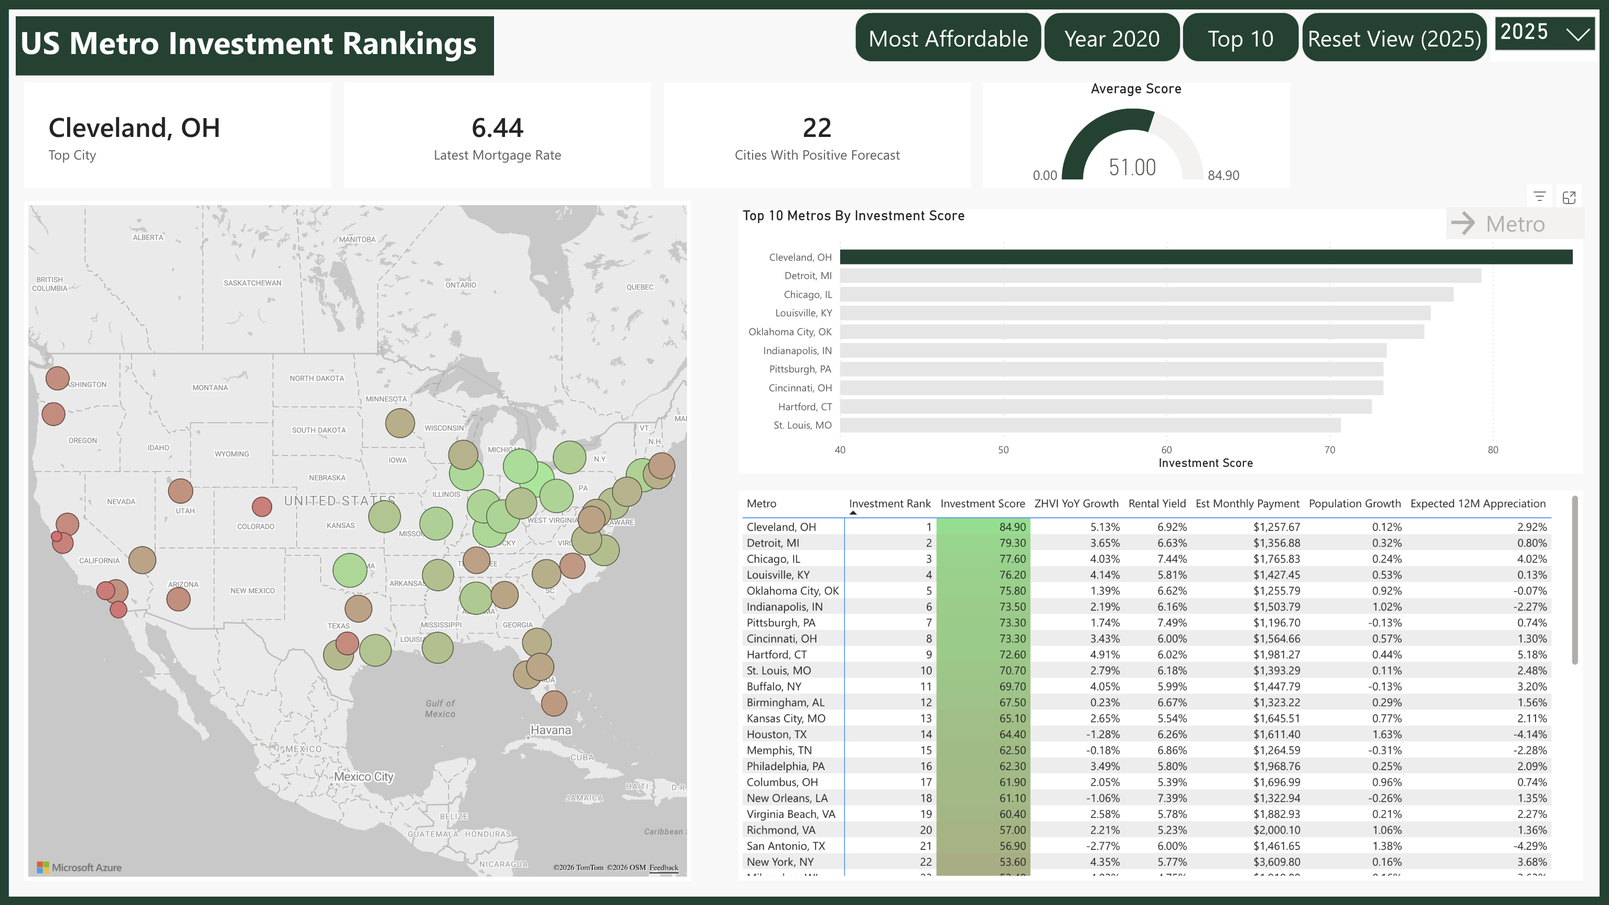
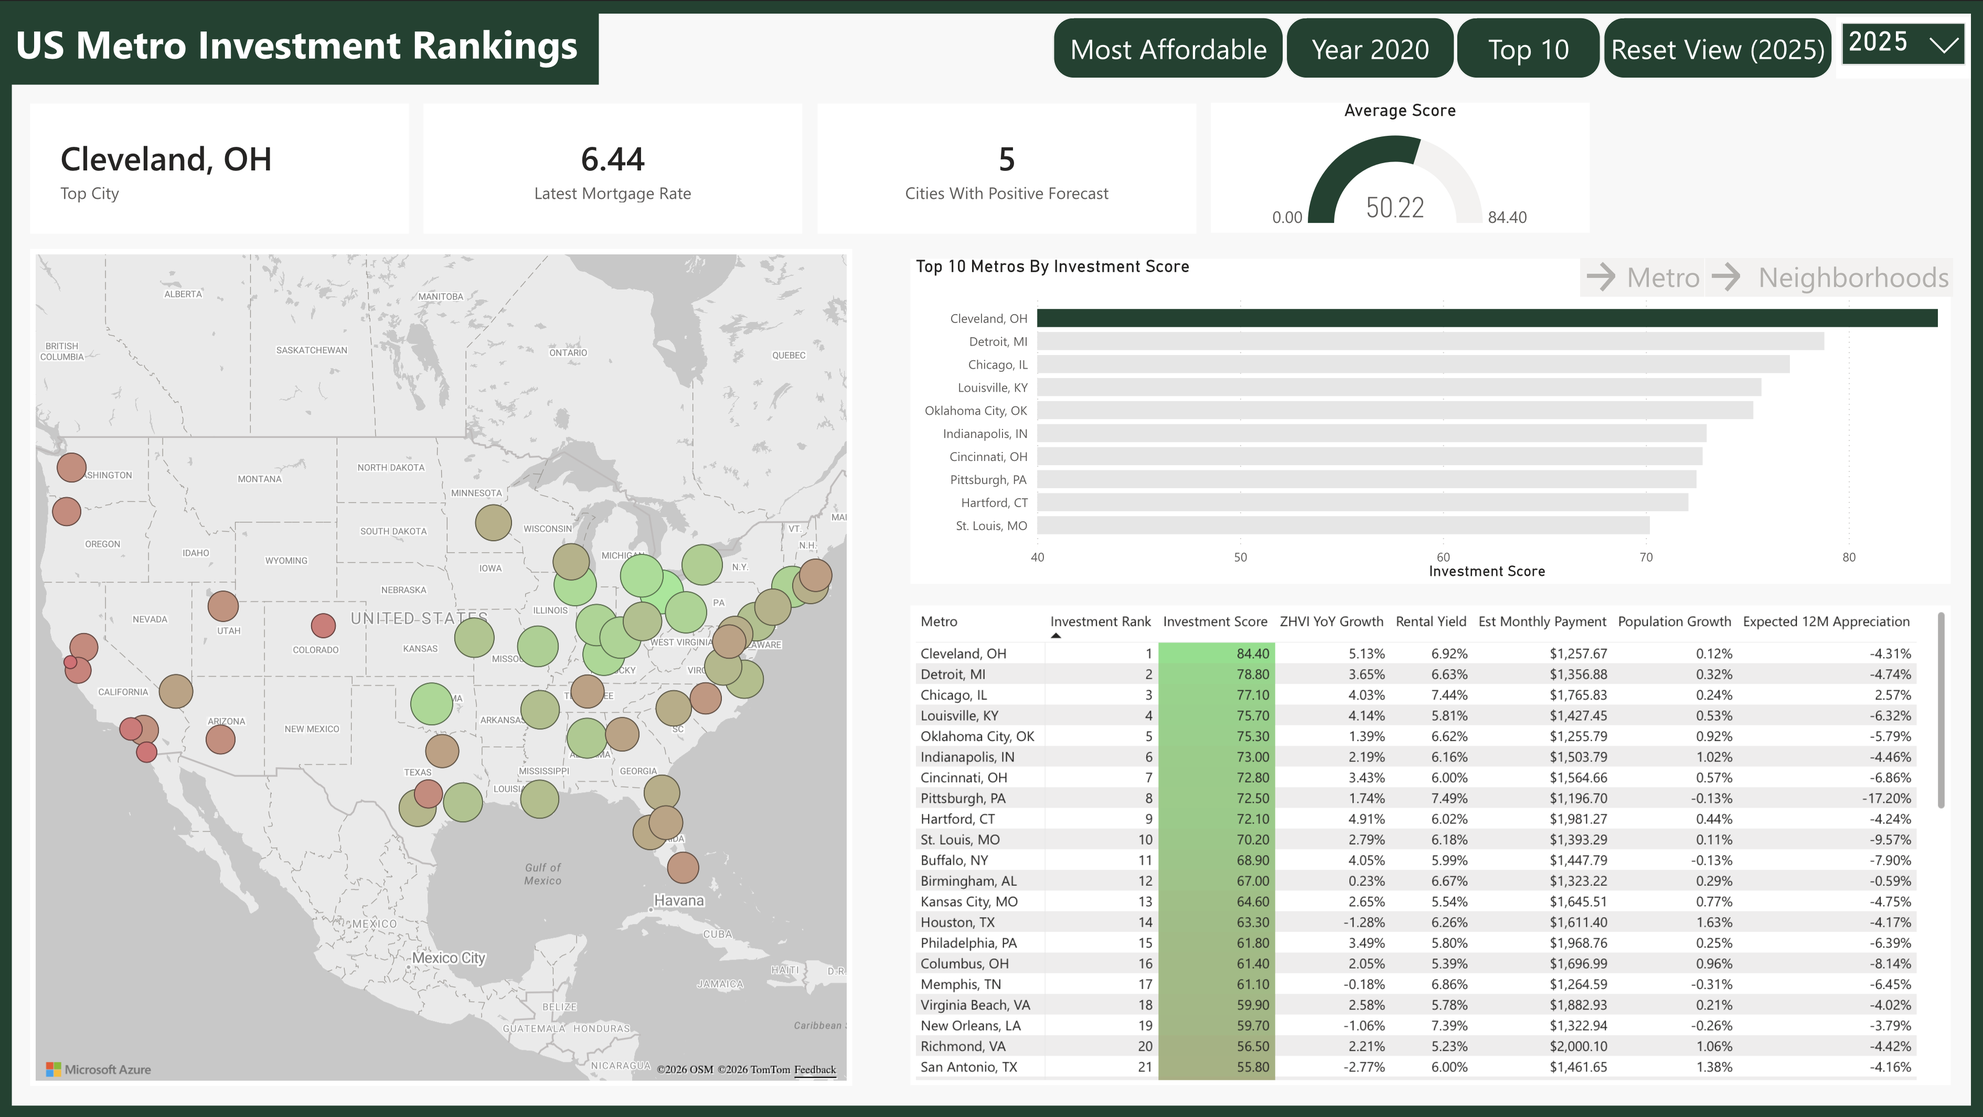
Update README: testing/CI, confidence intervals, neighborhood-level analysis

diff --git a/README.md b/README.md
@@ -1,8 +1,8 @@
 # US Metro Real Estate Investment Insight
 
-An end-to-end data engineering and analytics project that scores and ranks the 50 largest US metro areas on real estate investment attractiveness — from raw public data through a Python ETL pipeline, a Postgres star schema, an XGBoost forecasting model, and an interactive Power BI dashboard, fully automated on a monthly/annual cadence.
+An end-to-end data engineering and analytics project that scores and ranks the 50 largest US metro areas on real estate investment attractiveness — from raw public data through a Python ETL pipeline, a Postgres star schema, an XGBoost forecasting model with confidence intervals, and an interactive Power BI dashboard with neighborhood-level drill-down, fully automated on a monthly/annual cadence and covered by a CI-tested pipeline.
 
-**[View the live dashboard →](https://app.powerbi.com/view?r=eyJrIjoiODM4ZmI0OTMtYTFkOS00NmY5LTk1MjMtMDE0NzdlZmI4NDIzIiwidCI6ImNlMzE0NzhkLTZlN2EtNGNlNy04NjcwLWE1YjlkNTE4ODRmOSIsImMiOjh9)**
+**[View the live dashboard →](https://app.powerbi.com/view?r=eyJrIjoiMDkzODk5ZTQtYjQxZC00MzFhLWEwZjMtZTU3YmViZTQzMjlhIiwidCI6ImNlMzE0NzhkLTZlN2EtNGNlNy04NjcwLWE1YjlkNTE4ODRmOSIsImMiOjh9)**
 
 Built by [Samuel Pollák](https://github.com/S4mYo) — Data Science student (Finance & Economics).
 
@@ -10,9 +10,9 @@ Built by [Samuel Pollák](https://github.com/S4mYo) — Data Science student (Fi
 
 ## The business question
 
-*Which US metro markets currently offer the best risk-adjusted real estate investment opportunity?*
+*Which US metro markets currently offer the best risk-adjusted real estate investment opportunity — and once you've picked one, which neighborhoods within it look strongest?*
 
-Answering this well means combining four things that no single public dataset provides together: how fast prices are actually moving, how much a property would yield in rent, how affordable financing is right now, and whether the underlying population is growing or shrinking. This project builds a pipeline that pulls all four, keeps them updated automatically, and turns them into a single ranked scorecard — plus a 12-month price forecast to sanity-check the ranking against where the model thinks the market is headed.
+Answering this well means combining four things that no single public dataset provides together: how fast prices are actually moving, how much a property would yield in rent, how affordable financing is right now, and whether the underlying population is growing or shrinking. This project builds a pipeline that pulls all four, keeps them updated automatically, and turns them into a single ranked scorecard — plus a 12-month price forecast (with an honest, widening confidence band) to sanity-check the ranking, and a neighborhood-level view for drilling into any one metro.
 
 ---
 
@@ -22,30 +22,36 @@ Answering this well means combining four things that no single public dataset pr
 
 ![Overview page](docs/overview.png)
 
-**Metro Detail** (drill-through) — click any metro on the Overview page to open its dedicated view: full price/rent history, population migration by year, and a trend indicator against a zero-growth goal.
+**Metro Detail** (drill-through) — click any metro on the Overview page to open its dedicated view: full price/rent history, population migration by year, and a trend indicator against a zero-growth goal. A bookmark-toggled chart switches between the full historical price line and a 12-month forecast with a widening confidence interval.
 
 ![Metro Detail page](docs/metro-detail.png)
+
+**Street Overview** (drill-through from Metro Detail) — zooms into a single metro's neighborhoods: a map colored by year-over-year price growth, best/weakest-performing neighborhood callouts, and a top-5 price trend chart.
+
+![Street Overview page](docs/street-overview.png)
 
 ---
 
 ## Architecture
 
 ```
-Zillow (ZHVI, ZORI)  ─┐
+Zillow (ZHVI, ZORI,   ─┐
+  neighborhood ZHVI)   │
 FRED (mortgage rate,  ─┼─▶  Python ETL  ─▶  Postgres (Neon)  ─▶  Power BI  ─▶  Published report
   Case-Shiller)        │      scripts        star/galaxy         DAX model
 Census Bureau (pop.)  ─┘                       schema
                                   │
                                   ▼
                          XGBoost forecast
-                        (12-month recursive)
+                    (12-month recursive, with
+                     widening confidence bands)
                                   │
                                   ▼
                           GitHub Actions
-                     (monthly + annual cron)
+                (tests on every push + monthly/annual cron)
 ```
 
-Four independent public data sources are extracted, cleaned, and loaded into a relational schema; a forecasting model reads from that schema and writes its own predictions back into it; Power BI connects directly to the database and does all scoring, ranking, and visualization in DAX; GitHub Actions re-runs the whole pipeline on a schedule with no manual intervention.
+Four independent public data sources are extracted, cleaned, and loaded into a relational schema; a forecasting model reads from that schema and writes its own predictions (plus uncertainty bounds) back into it; Power BI connects directly to the database and does all scoring, ranking, and visualization in DAX; GitHub Actions runs the test suite on every push and re-runs the whole data pipeline on a schedule with no manual intervention.
 
 ---
 
@@ -54,48 +60,72 @@ Four independent public data sources are extracted, cleaned, and loaded into a r
 | Source | What | Granularity | Update cadence |
 |---|---|---|---|
 | [Zillow Research](https://www.zillow.com/research/data/) | ZHVI (home value index), ZORI (rent index) | Monthly, per metro | Published ~16th of each month |
+| [Zillow Research](https://www.zillow.com/research/data/) | Neighborhood-level ZHVI | Monthly, per neighborhood | Same monthly release |
 | [FRED](https://fred.stlouisfed.org/) | 30-year mortgage rate, Case-Shiller national home price index | Weekly / monthly, national | Mortgage rate weekly; Case-Shiller last Tuesday of the month, ~2-month lag |
 | [US Census Bureau](https://www.census.gov/programs-surveys/popest.html) | Metro population estimates, net migration | Annual, per metro | New vintage released ~March, for the year ending the prior July |
 
 All four are free, public datasets, pulled directly via their APIs or public CSV endpoints — no scraping, no paid data.
 
-The 50-metro roster is fixed at initialization (top 50 US metros by Zillow's `SizeRank`) and reused as the join key across every other source, since Census and Zillow name and code metros differently — matching them required a custom crosswalk (see [`fetch_census.py`](scripts/fetch_census.py)).
+The 50-metro roster is fixed at initialization (top 50 US metros by Zillow's `SizeRank`) and reused as the join key across every other source, since Census and Zillow name and code metros differently — matching them required a custom crosswalk (`derive_zillow_style_name`, in [`db.py`](scripts/db.py)), shared between the Census and neighborhood-level pipelines since both face the same long-form-metro-name problem.
+
+**Note on neighborhood-level ZORI:** Zillow does not publish a rent index at the neighborhood level (only metro and ZIP code), so the Street Overview page shows price momentum only — no neighborhood-level rental yield. See *Possible extensions*.
 
 ---
 
 ## Data model
 
-Postgres schema follows a star/galaxy pattern: one shared dimension (`dim_metro`), several fact tables at different grains, and one fact table (`fact_macro`) that deliberately has **no** metro dimension because mortgage rates and the Case-Shiller index are national, not metro-level — collapsing that into a per-metro fact table would mean duplicating a national number 50 times over.
+Postgres schema follows a star/galaxy pattern: one shared metro dimension, several fact tables at different grains, a national-only fact table with no metro dimension, and a second dimension/fact pair one level down in granularity.
 
 ```
-dim_metro ──┬── fact_home_values   (metro, month, home_type → ZHVI)
-            ├── fact_rent          (metro, month → ZORI)
-            ├── fact_population    (metro, year → population, net_migration)
-            └── fact_forecast      (metro, forecast_month → predicted ZHVI)
+dim_metro ──┬── fact_home_values          (metro, month, home_type → ZHVI)
+            ├── fact_rent                 (metro, month → ZORI)
+            ├── fact_population           (metro, year → population, net_migration)
+            ├── fact_forecast             (metro, forecast_month → predicted ZHVI, lower/upper bound)
+            └── dim_neighborhood ── fact_neighborhood_home_values  (neighborhood, month → ZHVI)
 
 fact_macro  (month → mortgage_rate_30y, case_shiller_index)   [no metro_id]
 ```
 
-See [`sql/schema.sql`](sql/schema.sql) for full DDL.
+`fact_macro` has no metro dimension because mortgage rates and the Case-Shiller index are national, not metro-level — collapsing that into a per-metro fact table would mean duplicating a national number 50 times over.
+
+`dim_neighborhood` is keyed on `(zillow_region_name, city, metro_id)`, not just `(zillow_region_name, metro_id)` — a single metro area can span multiple independent cities (e.g. the "New York, NY" metro includes Mount Vernon), and two of those cities can each independently have a neighborhood with the same name. It also carries a `size_rank_within_metro` column (see *Street-level neighborhood analysis* below).
+
+See [`sql/schema.sql`](sql/schema.sql) for full DDL and column-level comments.
 
 ---
 
 ## ETL pipeline
 
-Five Python scripts, each independently runnable and safe to re-run without duplicating data:
+Six Python scripts, each independently runnable and safe to re-run without duplicating data:
 
-- **`fetch_zhvi.py`** / **`fetch_zori.py`** — download Zillow's public CSVs, reshape wide-format (one column per month) into long format, and insert only rows not already present.
+- **`fetch_zhvi.py`** / **`fetch_zori.py`** — download Zillow's public metro-level CSVs, reshape wide-format (one column per month) into long format, and insert only rows not already present.
+- **`fetch_zhvi_neighborhood.py`** — same pattern, one level down in granularity. Two Zillow-specific wrinkles handled here: (1) Zillow occasionally publishes two separate `RegionID`s for what looks like the same neighborhood name (e.g. after redefining boundaries) — resolved by keeping only the lower-`SizeRank` ("more primary") record per name; (2) Zillow's own `SizeRank` is global across all US regions, so it isn't comparable between a large metro (where even a modest neighborhood ranks in the thousands) and a small one — a `size_rank_within_metro` column re-ranks neighborhoods relative only to others in the same metro.
 - **`fetch_fred.py`** — pulls both FRED series via their REST API, aligns weekly mortgage data to month-end averages, and inner-joins with Case-Shiller (which lags ~2-3 months) so incomplete months are dropped rather than loaded with gaps.
 - **`fetch_census.py`** — downloads the latest Census population vintage. The target URL encodes the vintage year, and Census has no live API for current-year estimates, so the script probes candidate URLs (this year, last year, two years back) with a `HEAD` request and uses the first one that resolves — no hardcoded year to go stale.
-- **`forecast.py`** — trains the model and writes predictions (see below). Skips retraining entirely if no new price data has arrived since the last run, so a monthly automation run that finds nothing new doesn't burn compute for no reason.
+- **`forecast.py`** — trains the model, evaluates it against baselines, and writes both point predictions and confidence bounds (see below). Skips retraining entirely if no new price data has arrived since the last run, so a monthly automation run that finds nothing new doesn't burn compute for no reason.
 
-Every load function uses one of two safe-to-repeat patterns: an `UPDATE` for values that get overwritten in place (like a metro's CBSA code), or an "insert only what's not already there" pattern (comparing incoming rows against what's in the table via a `pandas` merge) for values that accumulate over time (a new month of prices, a new year of population data).
+Every load function uses one of two safe-to-repeat patterns: an `UPDATE` for values that get overwritten in place (like a metro's CBSA code), or an "insert only what's not already there" pattern (comparing incoming rows against what's in the table via a `pandas` merge) for values that accumulate over time (a new month of prices, a new year of population data). The neighborhood-level fact table's bulk upsert (3.6M+ rows) uses chunked, multi-row inserts (`chunksize=10000, method="multi"`) rather than one statement per row.
+
+---
+
+## Testing & CI
+
+21 unit tests (`pytest tests/ -v`) covering the logic most at risk of silent breakage — not database calls or network I/O, but pure functions extracted specifically to be testable in isolation:
+
+- Metro name crosswalk (`derive_zillow_style_name`) — hyphenated/multi-state names, slash separators, edge cases like `Albany-Schenectady-Troy`.
+- Duplicate-neighborhood resolution (`keep_primary_region_per_name`) — the two-`RegionID`-per-name problem described above.
+- Forecast feature engineering (`add_lag_features`) — lag windows never cross a metro boundary.
+- Recursive forecast mechanics — correct row count, correct price compounding, confidence interval widens with horizon and always contains the point prediction.
+- Forecast staleness check (`is_forecast_stale`) — decides whether a re-run is needed, without touching the database.
+- Upsert logic (`get_new_rows`) — the shared "what's actually new" comparison every fetch script relies on.
+
+**`.github/workflows/tests.yml`** runs the full suite on every push and pull request to `main`, no secrets required. A separate **`monthly_update.yml`** workflow (see *Automation*) runs the actual data pipeline on a schedule.
 
 ---
 
 ## Forecasting model
 
-**Goal:** predict each metro's home value index 12 months ahead.
+**Goal:** predict each metro's home value index 12 months ahead, with an honest measure of how much to trust each step.
 
 **Approach:** one pooled XGBoost regressor across all 50 metros (metro ID as a categorical feature), predicting **month-over-month percent change** rather than the raw price — a tree model can't extrapolate beyond the value range it was trained on, and ZHVI only ever trends upward historically, so a raw-price target would eventually fall outside that range. Percent change stays in a stable, recurring band instead.
 
@@ -113,7 +143,7 @@ Every load function uses one of two safe-to-repeat patterns: an `UPDATE` for val
 
 The model modestly beats the naive "last month repeats" baseline — real momentum in home prices makes that a genuinely hard baseline to clear, so a small, consistent edge is an honest result rather than a weak one.
 
-**A limitation worth stating plainly:** because the prediction is recursive, a real, mild slowdown observed in the most recent months of actual data gets extrapolated forward for the full 12-month horizon. The model is reflecting a genuine recent trend, not malfunctioning — but it implicitly assumes that trend continues linearly, which tends to understate how often real markets stabilize or reverse over a full year. This is a property of recursive forecasting itself, not something a different algorithm (LSTM, transformer, etc.) would avoid — any model doing 12-step recursive prediction faces the same compounding. A useful next step would be a widening confidence interval per forecast step, rather than presenting month 1 and month 12 with equal implied certainty.
+**Confidence intervals:** because prediction is recursive, uncertainty compounds — a real, mild slowdown in the most recent actual data gets extrapolated forward, and errors from each step feed into the next. Rather than presenting month 1 and month 12 with equal implied certainty, each step's bound widens as `margin = Z × MAE × √step` (`Z ≈ 1.28`, an ~80% interval) — the standard result for compounding, roughly independent errors across recursive steps. Month 1 ships with a tight band; month 12 with a visibly wider one. This is a property of recursive forecasting itself (any model doing 12-step recursive prediction faces the same compounding, not something a different algorithm would sidestep), so widening the interval — rather than pretending the model is equally sure the whole way out — is the honest fix.
 
 ---
 
@@ -134,20 +164,36 @@ A separate `Expected 12M Appreciation` figure (from the forecast model) is shown
 
 ---
 
+## Street-level neighborhood analysis
+
+Drilling from a metro into its neighborhoods surfaced two problems that don't show up at metro level, worth documenting because the fixes generalize.
+
+**Filtering scope:** the page filters by the neighborhood's full metro (`metro_id`), not just its literal city name. US metro definitions are often wider than the core city — "Philadelphia" metro includes parts of Delaware, "Miami" metro includes over 40 separate cities from Fort Lauderdale to West Palm Beach. Filtering to city name alone made large multi-city metros look sparse (Miami showed 36 neighborhoods instead of 911); filtering to the full metro is the more complete, correct picture once the geocoding problem below was solved.
+
+**Geocoding reliability:** Bing/Azure's map visual geocodes from free text, and a handful of neighborhood names — real, correctly-labeled Zillow data — are ambiguous enough to be placed in the wrong location: names shared with better-known places elsewhere (e.g. "Silver Lake" also exists, more prominently, in Los Angeles) or names that read as standalone cities in their own right (e.g. "Grant City," a real Staten Island neighborhood). Two fixes, in order of impact:
+1. **Structured map labels** — instead of a flat `"{name}, {city}, {state}"` string, the label explicitly states the hierarchy: `"{name} (neighborhood in {city}), {state}, United States"`. This resolved the large majority of misplacements by giving the geocoder an unambiguous relationship instead of a flat list of tokens it had to disambiguate itself.
+2. **A small explicit exclusion list** — a handful of very obscure neighborhoods (Bing appears to have no record of them at all, rather than picking the wrong match) are filtered out by name on the map visual. This is a visualization-layer filter only; the underlying data is untouched.
+
+**Prominence filtering:** to keep the map both legible and reliably geocodable, it's filtered to each metro's top neighborhoods by `size_rank_within_metro` — obscure, low-`SizeRank` neighborhoods are exactly the ones most likely to have no Bing geocoding record at all.
+
+---
+
 ## Automation
 
-Two GitHub Actions workflows, both re-runnable manually and scheduled to run a few days after each source's typical release date:
+Two GitHub Actions workflows for data, plus one for tests, all re-runnable manually:
 
-- **`monthly_update.yml`** (18th of each month) — Zillow, FRED, and forecast, in that order.
+- **`tests.yml`** — runs the full pytest suite on every push/PR to `main`.
+- **`monthly_update.yml`** (18th of each month) — Zillow (metro + neighborhood ZHVI), ZORI, FRED, and forecast, in that order.
 - **`annual_census_update.yml`** (28th of March, with a fallback run in April) — Census population data.
 
-Both use the same idempotent load patterns described above, so a run that finds nothing new is a no-op, not a risk. Secrets (`DATABASE_URL`, `FRED_API_KEY`) are stored as GitHub Actions repository secrets, never committed.
+Both data workflows use the same idempotent load patterns described above, so a run that finds nothing new is a no-op, not a risk. Secrets (`DATABASE_URL`, `FRED_API_KEY`) are stored as GitHub Actions repository secrets, never committed.
 
 ---
 
 ## Tech stack
 
 **Data & ML:** Python, pandas, SQLAlchemy, XGBoost, scikit-learn
+**Testing:** pytest
 **Database:** PostgreSQL (Neon — serverless, auto-resumes on connection)
 **BI:** Power BI Desktop, DAX
 **Automation:** GitHub Actions
@@ -172,13 +218,19 @@ FRED_API_KEY=your_fred_api_key
 CENSUS_API_KEY=your_census_api_key
 ```
 
-Run the schema in `sql/schema.sql` against your Postgres instance, then:
+Run the schema in `sql/schema.sql` against your Postgres instance, then, from the project root:
 ```bash
-python scripts/fetch_zhvi.py
-python scripts/fetch_zori.py
-python scripts/fetch_fred.py
-python scripts/fetch_census.py
-python scripts/forecast.py
+python -m scripts.fetch_zhvi
+python -m scripts.fetch_zhvi_neighborhood
+python -m scripts.fetch_zori
+python -m scripts.fetch_fred
+python -m scripts.fetch_census
+python -m scripts.forecast
+```
+
+Run the test suite with:
+```bash
+pytest tests/ -v
 ```
 
 Connect Power BI Desktop to the same database to explore or rebuild the report.
@@ -187,6 +239,8 @@ Connect Power BI Desktop to the same database to explore or rebuild the report.
 
 ## Possible extensions
 
-- **Neighborhood/ZIP-level detail** — current scope is metro-level only; Zillow and Census both publish more granular data that could support drill-through below the metro level.
-- **Forecast uncertainty bands** — widening confidence intervals per forecast step, to make the 12-month horizon's declining certainty visible rather than implicit.
+- **Neighborhood-level rental yield** — Zillow doesn't publish ZORI below ZIP code, so projecting yield at neighborhood granularity would need a separate ZIP-based rent pipeline plus a geographic ZIP↔neighborhood crosswalk (the two aren't 1:1 — a ZIP code can span parts of several neighborhoods and vice versa).
+- **True neighborhood boundaries** — the map currently plots each neighborhood as a single geocoded point, not its actual shape. Real boundary polygons would need a separate GeoJSON source and a shape-map visual, not the point-based map used here.
+- **A second drill-through level** — from Street Overview into an individual neighborhood's own detail page, mirroring the Overview → Metro Detail pattern one level deeper.
+- **Rent forecasting** — the forecast model currently predicts ZHVI only. Extending it to ZORI would need its own training pipeline and would let `Rental Yield` be projected forward, not just computed from current data — but combining two independently-uncertain forecasts adds compounding error worth thinking through carefully first.
 - **Model versioning** — `fact_forecast` currently keeps only the latest forecast; a `model_version`-based history would allow tracking forecast accuracy over time.
